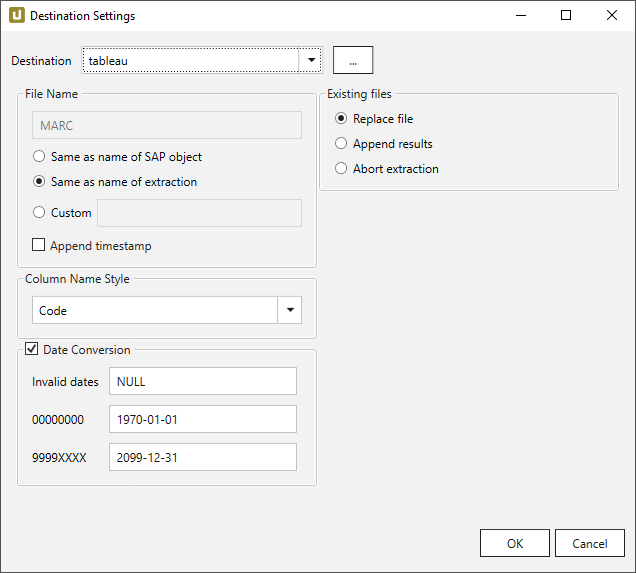
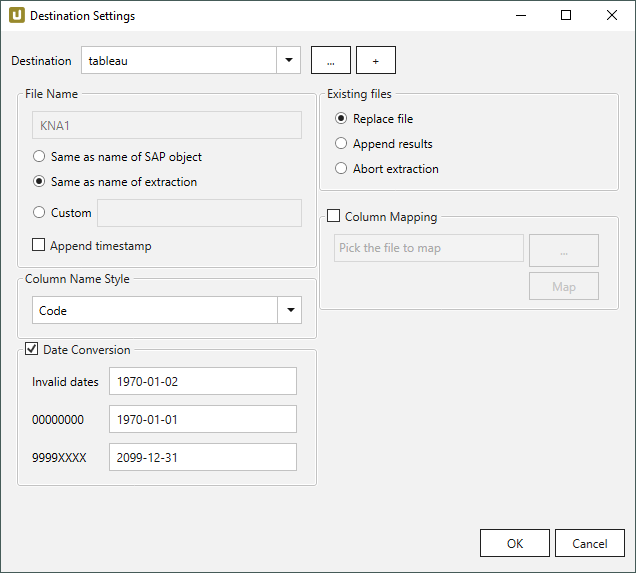
draft

diff --git a/content/_de/xtract-universal/destinationen/tableau.md b/content/_de/xtract-universal/destinationen/tableau.md
@@ -97,8 +97,18 @@ Die folgenden Einstellungen können für die Destination definiert werden.
 
 {: .box-note }
 **Hinweis:** Wenn *Append results* aktiv ist, weist Xtract Universal die Spalten der laufenden Extraktion den Spalten der vorhandenen Tableau-Datei zu.
-Dieses Datenmapping basiert auf den Namen der jeweiligen Spalten. Die Anzahl der Spalten müssen übereinstimmen.
+Dieses Datenmapping basiert auf den Namen der jeweiligen Spalten. Die Anzahl der Spalten müssen übereinstimmen. Wenn Name oder Anzahl der Spalten nicht übereinstimmen, verwenden Sie **Column Mapping**.
 Um diese Mapping-Funktion zu nutzen, stellen Sie sicher, dass der Tableau-Ordner im Installationsverzeichnis von Xtract Universal auf dem aktuellen Stand ist, siehe [Download des aktuellen Tableau-Ordners](https://s3.eu-central-1.amazonaws.com/cdn-files.theobald-software.com/download/XtractUniversal/tableau.zip). 
+
+### Column Mapping
+Verwenden Sie **Column Mapping** wenn Sie Daten in einer bereits bestehende Zieldatei ergänzen und Sie Spalten manuell zuweisen müssen.
+1. Klicken Sie auf **[...]**, um die Datei auszuwählen, die Sie ergänzen möchten.
+Unterstützt werden .csv und .hyper Dateien.
+2. Klicken Sie auf **[Map]**, um Spalten zuzuweisen. Das Fenster "Column Mapping" öffnet sich.<br>
+![Column-Mapping](/img/content/column-mapping.png){:class="img-responsive"}
+3. Wenn die Spaltennamen der Extraktion dieselben sind wie in der ausgewählten Datei, klicken Sie auf **[Auto map by name]**.<br>
+Wenn die Spaltennamen nicht übereinstimmen, wählen Sie die entsprechenden Spalten der Zieldatei über das Dropdown-Menü aus.
+4. Klicken Sie auf **[OK]**, um Ihre Auswahl zu bestätigen.
 
 
 ## Weiterführende Links:

diff --git a/content/_de/xtract-universal/destinationen/csv-flat-file.md b/content/_de/xtract-universal/destinationen/csv-flat-file.md
@@ -68,8 +68,8 @@ Die folgenden Einstellungen können für die Destination definiert werden.
 ### Existing files 
 
 **Replace file**: eine vorhandene Zieldatei wird überschrieben. <br>
-**Append results**: Daten werden an eine bereits bestehende Zieldatei angehängt. <br>
-**Abort extraction**: Der Prozess wird abgebrochen, falls eine Zeildatei bereits existiert.   
+**Append results**: Daten werden in einer bereits existierenden Zieldatei ergänzt. Siehe auch [Column Mapping](#column-mapping).<br>
+**Abort extraction**: Der Prozess wird abgebrochen, falls eine Zieldatei bereits existiert.   
 
 ### File Splitting
 
@@ -83,3 +83,13 @@ Geben Sie die Maximalgröße der einzelnen Dateien ein, die abgelegt werden soll
 {: .box-note }
 **Note:** Die Option *Max. file size* wird nicht von gzip-Dateien unterstützt.
 Die Größe von durch gzip-Verfahren komprimierten Dateien kann nicht im Voraus bestimmt werden.
+
+### Column Mapping
+Verwenden Sie **Column Mapping** wenn Sie Daten in einer bereits bestehende Zieldatei ergänzen und Sie Spalten manuell zuweisen müssen.
+1. Klicken Sie auf **[...]**, um die Datei auszuwählen, die Sie ergänzen möchten.
+Unterstützt werden .csv und .hyper Dateien.
+2. Klicken Sie auf **[Map]**, um Spalten zuzuweisen. Das Fenster "Column Mapping" öffnet sich.<br>
+![Column-Mapping](/img/content/column-mapping.png){:class="img-responsive"}
+3. Wenn die Spaltennamen der Extraktion dieselben sind wie in der ausgewählten Datei, klicken Sie auf **[Auto map by name]**.<br>
+Wenn die Spaltennamen nicht übereinstimmen, wählen Sie die entsprechenden Spalten der Zieldatei über das Dropdown-Menü aus.
+4. Klicken Sie auf **[OK]**, um Ihre Auswahl zu bestätigen.

diff --git a/content/_en/xtract-universal/destinations/tableau.md b/content/_en/xtract-universal/destinations/tableau.md
@@ -98,7 +98,16 @@ The following settings can be defined for the destination:
 **Note:** When *Append results* is selected, Xtract Universal maps the columns from the running extraction with the columns of the existing Tableau file. 
 The mapping is based on the column names.
 To use the mapping function, make sure that the tableau folder in the installation directory of Xtract Universal is up to date, see [download latest tableau folder](https://s3.eu-central-1.amazonaws.com/cdn-files.theobald-software.com/download/XtractUniversal/tableau.zip). 
-Note that the number of columns must match.
+Note that the number of columns must match. If the number or names of the columns does not match, use **Column Mapping**.
+
+### Column Mapping
+Activate **Column Mapping** when appending data to an existing file that has different column names or a that has a different number of columns.
+1. Click **[...]** and select the file you want to extend with your data. Supported are .csv and .hyper files.
+2. Click **[Map]** to assign collumns. The window "Column Mapping" opens.<br>
+![Column-Mapping](/img/content/column-mapping.png){:class="img-responsive"}
+3. If the column names of the extraction match the column names in the file, click **[Auto map by name]**.<br>
+If the column names do not match, assign columns manually by selecting the destination column corresponding to the SAP column from the dropdown menu.
+4. Click **[OK]** to confirm your input.
 
 *****
 ## Related Links

diff --git a/content/_en/xtract-universal/destinations/csv-flat-file.md b/content/_en/xtract-universal/destinations/csv-flat-file.md
@@ -66,7 +66,7 @@ The following settings can be defined for the destination:
  
 ### Existing files
 **Replace file**: The export process overwrites existing files.<br>
-**Append results**: The export process appends new data to an already existing file.<br>
+**Append results**: The export process appends new data to an already existing file. See also [Column Mapping](#column-mapping).<br>
 **Abort extraction**: The process is aborted, if the file already exists.  
 
 ### File Splitting
@@ -81,3 +81,13 @@ The value set in *Max. file size* determines the maximum size of each file.
 {: .box-note }
 **Note:** The option *Max. file size* does not apply to gzip files. 
 The size of a gzipped file cannot be determined in advance.
+
+### Column Mapping
+Activate **Column Mapping** when appending data to an existing file that has a different number of columns than the extracted data.
+1. Click **[...]** and select the file you want to extend with your data. Supported are .csv and .hyper files.
+2. Click **[Map]** to assign collumns. The window "Column Mapping" opens.<br>
+![Column-Mapping](/img/content/column-mapping.png){:class="img-responsive"}
+3. If the column names of the extraction match the column names in the file, click **[Auto map by name]**.<br>
+If the column names do not match, assign columns manually by selecting the destination column corresponding to the SAP column from the dropdown menu.
+4. Click **[OK]** to confirm your input.
+
